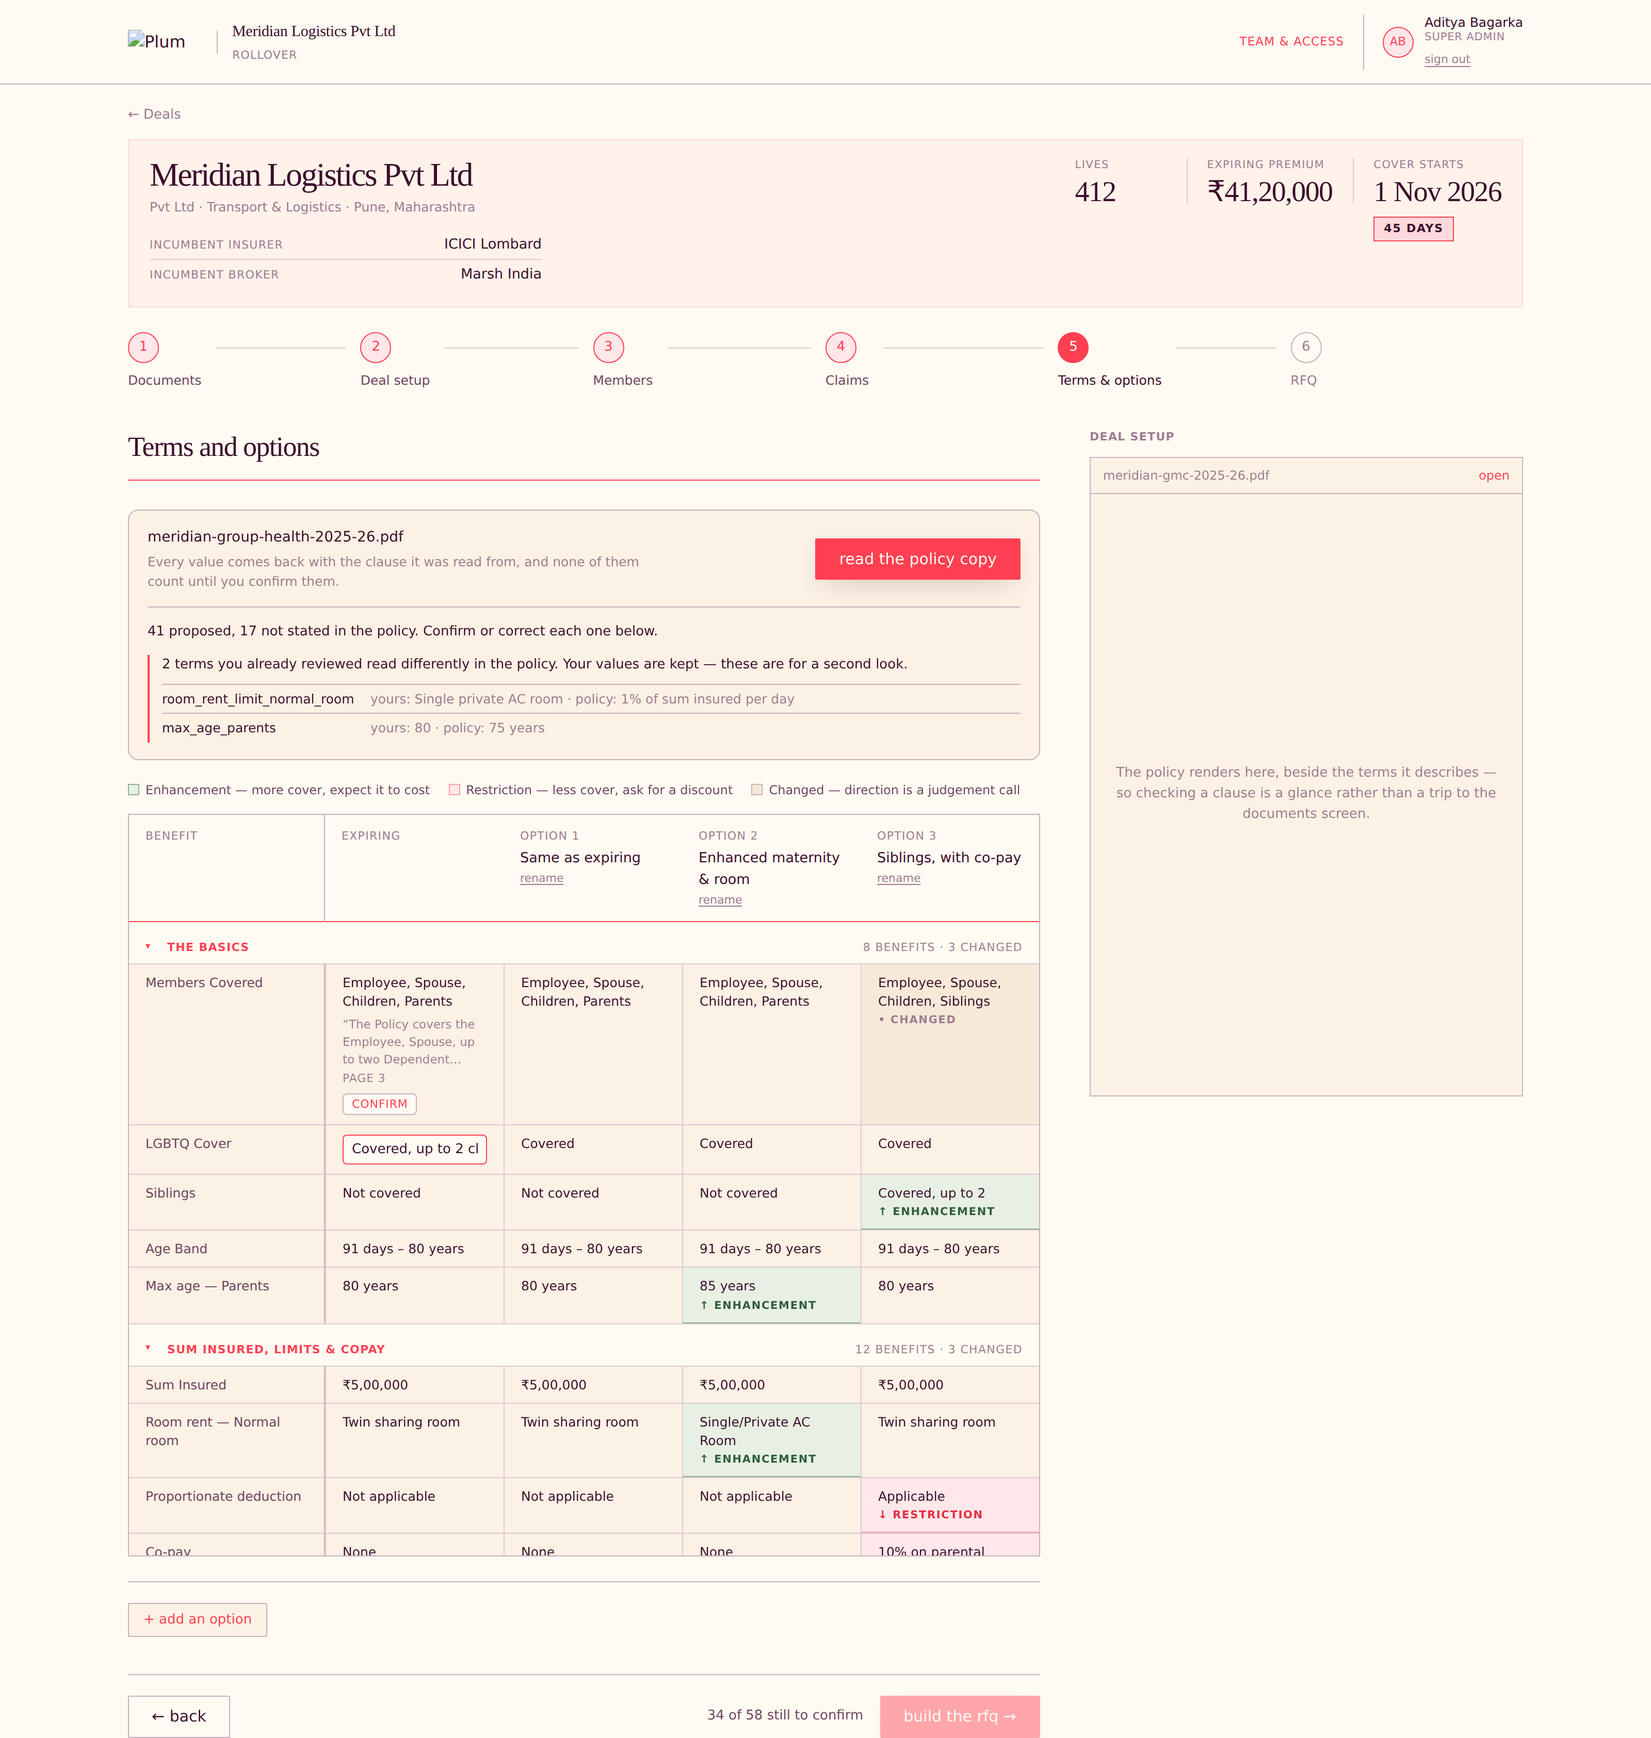
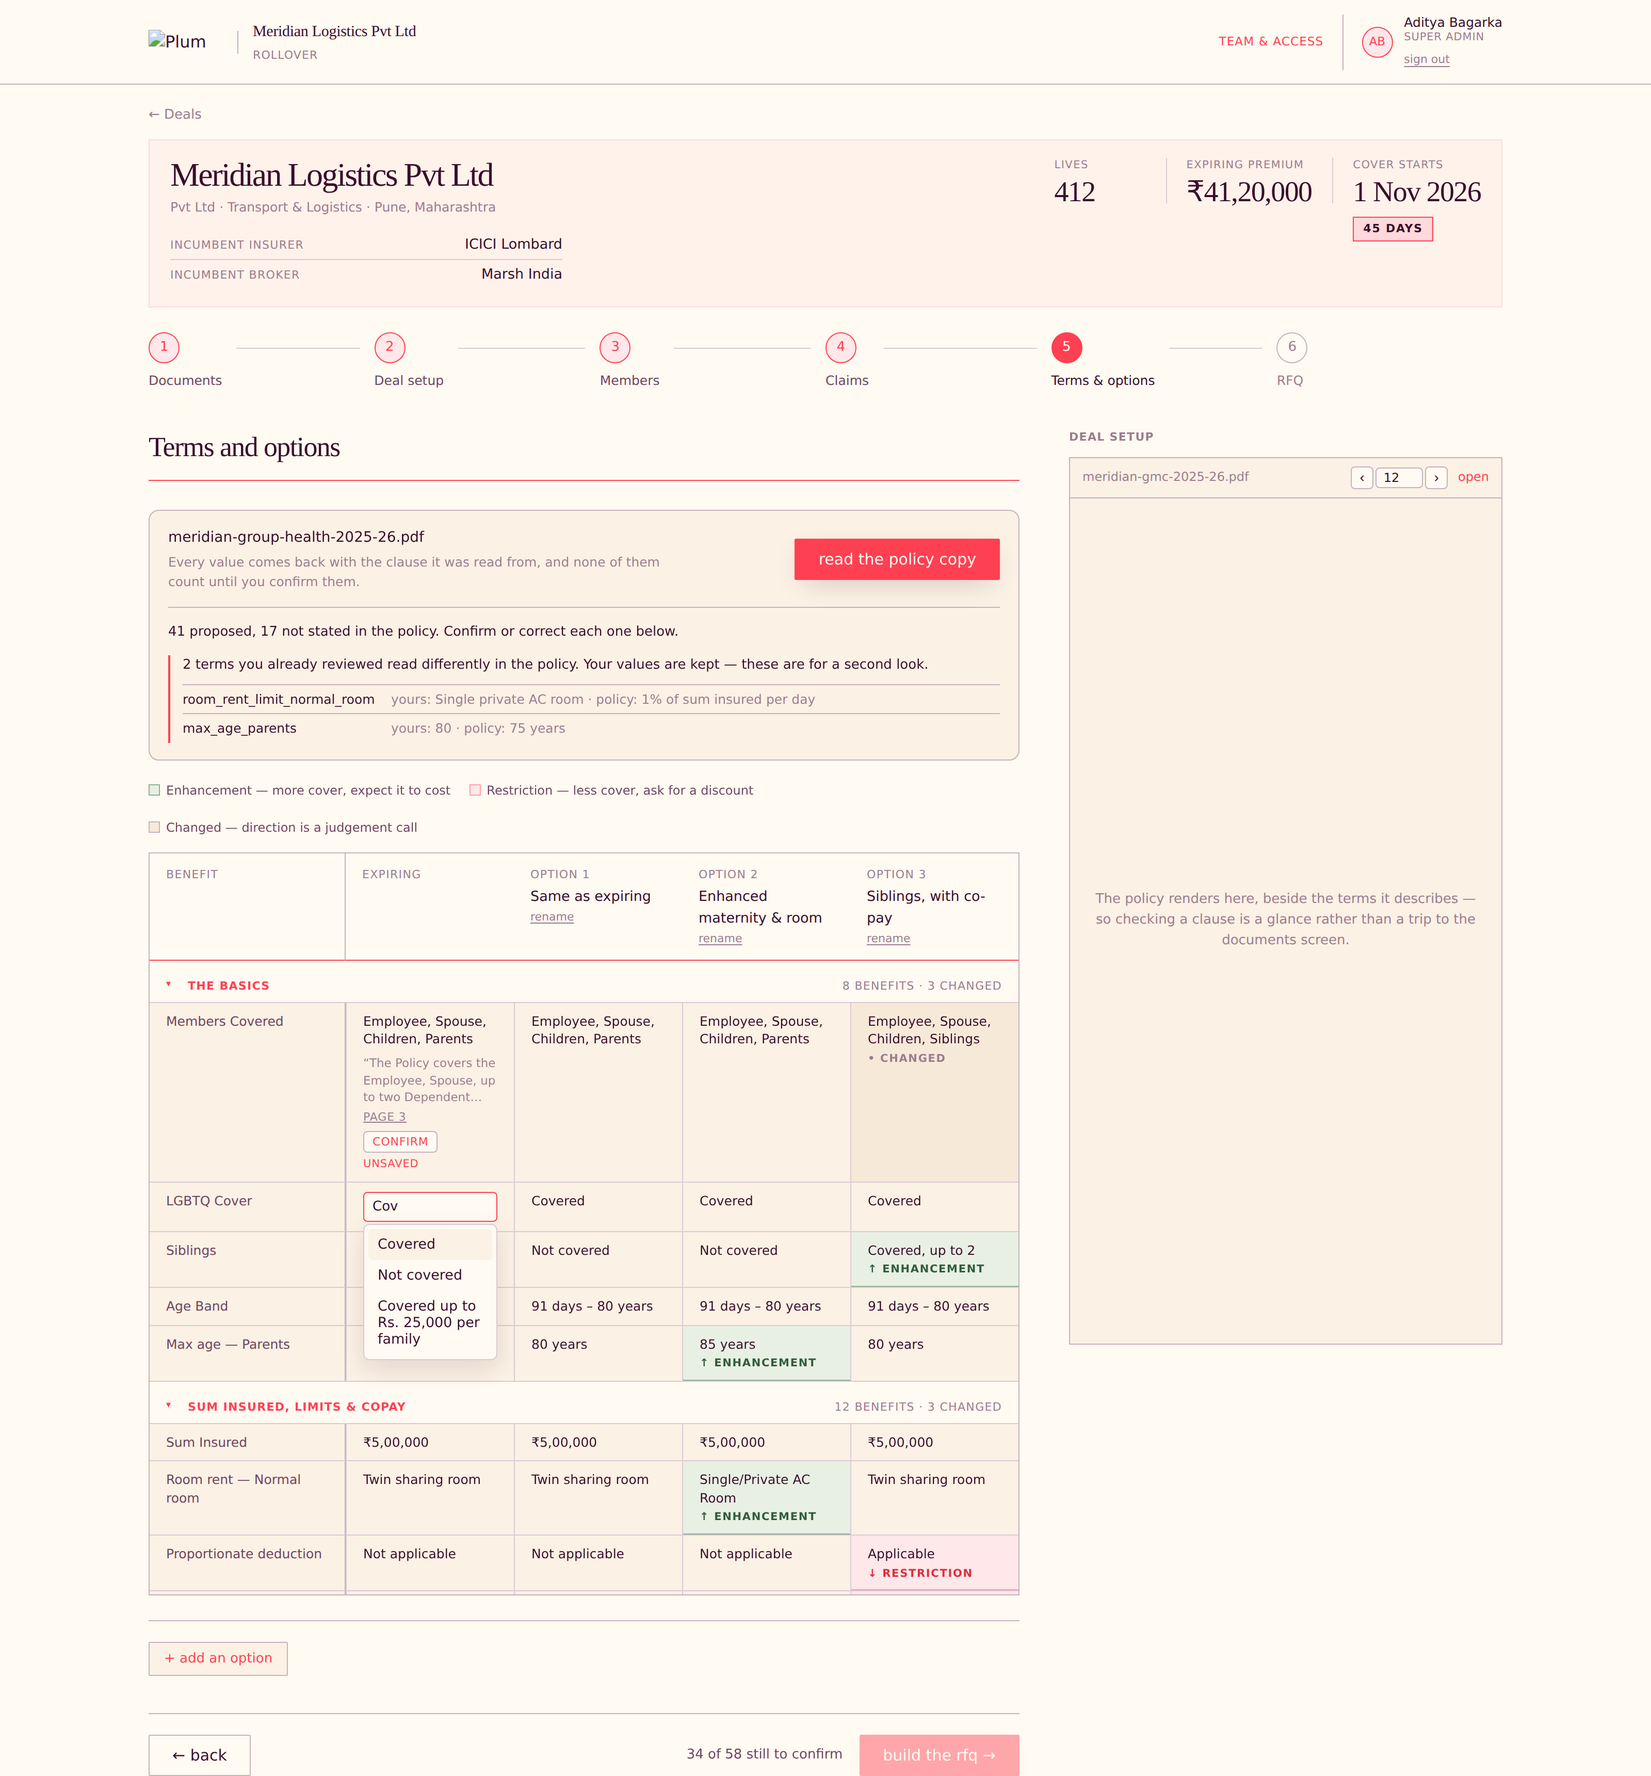
Give the terms step room, and the policy copy a way to turn its pages
Width. 1200 was too tight the moment the grid had the policy beside it and
more than one option — the benefit column, expiring and two options do not fit,
and the horizontal scrolling that followed turned comparing an option against
expiring into a memory exercise. Every step is 1440 now. Widened rather than
varied per step: a page column that moves between steps is what we changed away
from, and that reasoning still holds.

The benefit column is sticky, so a value cannot end up read under the wrong
label once the grid scrolls sideways. That mistake is an insurer quoting the
wrong cover.

The policy panel was an iframe pinned to page one of a sixty-page document —
a picture of a policy rather than a way to read one, and the only route to page
12 was opening the file in another tab, which is exactly the trip the panel
exists to avoid. It now has page controls, is sticky and full height, and a
proposed term's "page 12" drives it: the clause is quoted on the term, and
clicking the page takes the panel to where it sits. That is the difference
between evidence and a footnote.

The frame is keyed on the page because a fragment change alone does not move
the browser's PDF viewer once it has loaded — without that the controls would
move the number and nothing else.

Claude-Session: https://claude.ai/code/session_01GTNhrhZnfcdGDqUXckdAkA

diff --git a/src/app/deals/[id]/terms/policy-panel.tsx b/src/app/deals/[id]/terms/policy-panel.tsx
@@ -2,21 +2,38 @@
 
 import { useEffect, useState } from 'react';
 import { createBrowserClient } from '@supabase/ssr';
+import { currentPolicyPage, goToPolicyPage, watchPolicyPage } from './policy-view';
 
 const SUPABASE_URL = process.env.NEXT_PUBLIC_SUPABASE_URL;
 const SUPABASE_ANON_KEY = process.env.NEXT_PUBLIC_SUPABASE_ANON_KEY;
 
 /**
- * The expiring policy, rendered beside the terms grid.
+ * The expiring policy, rendered beside the terms it describes.
  *
  * The file is fetched through a short-lived signed URL rather than a public
  * one: the bucket is private, and access is decided by the same span rules as
  * the deal itself (migration 0016). A URL that outlived the session would be a
  * way around that.
+ *
+ * Page navigation is the point. The panel used to be an iframe pinned to page
+ * one of a sixty-page document, which is a picture of a policy rather than a
+ * way to read one — the only way to reach page 12 was to open the file in
+ * another tab, which is the trip this panel exists to avoid. The viewer takes a
+ * page number, so the controls here and the "page 12" on a proposed term both
+ * drive the same thing.
  */
-export function PolicyPanel({ caseId, fileRef }: { caseId: string; fileRef: string | null }) {
+export function PolicyPanel({
+  fileRef,
+  fileName,
+}: {
+  fileRef: string | null;
+  fileName: string | null;
+}) {
   const [url, setUrl] = useState<string | null>(null);
   const [error, setError] = useState<string | null>(null);
+  const [page, setPage] = useState(currentPolicyPage());
+
+  useEffect(() => watchPolicyPage(setPage), []);
 
   useEffect(() => {
     if (!fileRef || !SUPABASE_URL || !SUPABASE_ANON_KEY) return;
@@ -26,7 +43,7 @@ export function PolicyPanel({ caseId, fileRef }: { caseId: string; fileRef: stri
 
     supabase.storage
       .from('case-documents')
-      .createSignedUrl(fileRef, 600)
+      .createSignedUrl(fileRef, 3600)
       .then(({ data, error }) => {
         if (cancelled) return;
         if (error) setError(error.message);
@@ -36,15 +53,12 @@ export function PolicyPanel({ caseId, fileRef }: { caseId: string; fileRef: stri
     return () => {
       cancelled = true;
     };
-  }, [fileRef, caseId]);
+  }, [fileRef]);
 
   if (!fileRef) {
     return (
       <div className="pdf-panel">
-        <div className="pdf-panel__empty">
-          No policy copy uploaded yet. Add one at the expiring policy step and it will show here
-          while you work through the terms.
-        </div>
+        <div className="pdf-panel__empty">No policy copy uploaded.</div>
       </div>
     );
   }
@@ -52,17 +66,50 @@ export function PolicyPanel({ caseId, fileRef }: { caseId: string; fileRef: stri
   return (
     <div className="pdf-panel">
       <div className="pdf-panel__bar">
-        <span>{fileRef.split('/').pop()}</span>
+        <span className="pdf-panel__name">{fileName ?? fileRef.split('/').pop()}</span>
+
+        <span className="pdf-panel__pager">
+          <button
+            type="button"
+            onClick={() => goToPolicyPage(page - 1)}
+            disabled={page <= 1}
+            aria-label="Previous page"
+          >
+            ‹
+          </button>
+          <input
+            type="number"
+            min={1}
+            value={page}
+            onChange={(e) => goToPolicyPage(Number(e.target.value))}
+            aria-label="Page"
+          />
+          <button type="button" onClick={() => goToPolicyPage(page + 1)} aria-label="Next page">
+            ›
+          </button>
+        </span>
+
         {url ? (
-          <a href={url} target="_blank" rel="noreferrer">
+          <a href={`${url}#page=${page}`} target="_blank" rel="noreferrer">
             open
           </a>
         ) : null}
       </div>
+
       {error ? (
         <div className="pdf-panel__empty">Could not open the policy: {error}</div>
       ) : url ? (
-        <iframe className="pdf-panel__frame" src={url} title="Expiring policy" />
+        /*
+         * Keyed on the page so React remounts the frame. A fragment change
+         * alone does not move the browser's PDF viewer once it has loaded, so
+         * without this the controls would move the number and nothing else.
+         */
+        <iframe
+          key={page}
+          className="pdf-panel__frame"
+          src={`${url}#page=${page}&view=FitH`}
+          title="Expiring policy"
+        />
       ) : (
         <div className="pdf-panel__empty">Opening…</div>
       )}

diff --git a/docs/design-review/05-terms-built.html b/docs/design-review/05-terms-built.html
@@ -51,7 +51,7 @@
     <div class="terms"><div class="terms__grid" style="grid-template-columns:minmax(190px,1.2fr) minmax(160px,1.3fr) minmax(160px,1.3fr) minmax(160px,1.3fr) minmax(160px,1.3fr)">
       <div class="terms__head"><div>Benefit</div><div>Expiring</div><div>Option 1<span class="opt-name">Same as expiring</span><button class="terms__rename">rename</button></div><div>Option 2<span class="opt-name">Enhanced maternity &amp; room</span><button class="terms__rename">rename</button></div><div>Option 3<span class="opt-name">Siblings, with co-pay</span><button class="terms__rename">rename</button></div></div>
       <button class="terms__section"><span class="terms__caret">▾</span><span class="terms__section-name">The basics</span><span class="terms__section-count">8 benefits · 3 changed</span></button>
-        <div class="terms__cell terms__cell--label">Members Covered</div><div class="terms__cell terms__cell--proposed"><button class="terms__edit" type="button">Employee, Spouse, Children, Parents</button><span class="terms__evidence">“The Policy covers the Employee, Spouse, up to two Dependent Children and Dependent Parents, as declared in the member data.”</span><span class="terms__page">page 3</span><button class="terms__confirm" type="button">confirm</button><span class="terms__state terms__state--dirty">unsaved</span></div><div class="terms__cell">Employee, Spouse, Children, Parents</div><div class="terms__cell">Employee, Spouse, Children, Parents</div><div class="terms__cell terms__cell--changed">Employee, Spouse, Children, Siblings<span class="terms__mark terms__mark--changed">• changed</span></div>
+        <div class="terms__cell terms__cell--label">Members Covered</div><div class="terms__cell terms__cell--proposed"><button class="terms__edit" type="button">Employee, Spouse, Children, Parents</button><span class="terms__evidence">“The Policy covers the Employee, Spouse, up to two Dependent Children and Dependent Parents, as declared in the member data.”</span><button class="terms__page terms__page--link" type="button">page 3</button><button class="terms__confirm" type="button">confirm</button><span class="terms__state terms__state--dirty">unsaved</span></div><div class="terms__cell">Employee, Spouse, Children, Parents</div><div class="terms__cell">Employee, Spouse, Children, Parents</div><div class="terms__cell terms__cell--changed">Employee, Spouse, Children, Siblings<span class="terms__mark terms__mark--changed">• changed</span></div>
         <div class="terms__cell terms__cell--label">LGBTQ Cover</div><div class="terms__cell terms__cell--editing"><span class="typeahead"><input class="terms__input" value="Cov"><ul class="typeahead__list"><li><button class="is-active">Covered</button></li><li><button>Not covered</button></li><li><button>Covered up to Rs. 25,000 per family</button></li></ul></span></div><div class="terms__cell">Covered</div><div class="terms__cell">Covered</div><div class="terms__cell">Covered</div>
         <div class="terms__cell terms__cell--label">Siblings</div><div class="terms__cell">Not covered</div><div class="terms__cell">Not covered</div><div class="terms__cell">Not covered</div><div class="terms__cell terms__cell--enhancement">Covered, up to 2<span class="terms__mark terms__mark--enhancement">↑ enhancement</span></div>
         <div class="terms__cell terms__cell--label">Age Band</div><div class="terms__cell">91 days – 80 years</div><div class="terms__cell">91 days – 80 years</div><div class="terms__cell">91 days – 80 years</div><div class="terms__cell">91 days – 80 years</div>
@@ -79,7 +79,7 @@
    <aside class="step__aside">
      <div class="aside-block"><h3>Deal setup</h3>
        <div class="pdf-panel">
-         <div class="pdf-panel__bar"><span>meridian-gmc-2025-26.pdf</span><a>open</a></div>
+         <div class="pdf-panel__bar"><span class="pdf-panel__name">meridian-gmc-2025-26.pdf</span><span class="pdf-panel__pager"><button type="button">‹</button><input type="number" value="12"><button type="button">›</button></span><a>open</a></div>
          <div class="pdf-panel__empty">The policy renders here, beside the terms it describes — so checking a clause is a glance rather than a trip to the documents screen.</div>
        </div>
      </div>

diff --git a/src/styles/plum.css b/src/styles/plum.css
@@ -243,8 +243,18 @@ a:hover {
 
 /* ---------------------------------------------------------------------- */
 
+/*
+ * One width for every step. 1200 was too tight the moment the terms grid had
+ * the policy beside it and more than one option: the benefit column, the
+ * expiring column and two options do not fit, and the horizontal scrolling that
+ * followed made comparing an option to expiring a memory exercise.
+ *
+ * Widened rather than varied per step, because a page column that moves between
+ * steps breaks the line of sight down the form — which was the reason for
+ * settling on one width in the first place.
+ */
 .shell {
-  max-width: 1200px;
+  max-width: 1440px;
   margin: 0 auto;
   padding: 0 clamp(20px, 4vw, 64px);
 }
@@ -896,10 +906,17 @@ input[type='text'] {
 }
 
 /* The policy, beside the terms it describes. */
+/*
+ * Sticky and tall. The grid beside it is fifty-eight rows; a panel that scrolls
+ * away with the page is a policy you can consult for the first eight benefits.
+ */
 .pdf-panel {
+  position: sticky;
+  top: 16px;
   border: 1px solid var(--line-lavender);
   background: var(--cream-deep);
-  height: 620px;
+  height: calc(100vh - 140px);
+  min-height: 520px;
   display: flex;
   flex-direction: column;
 }
@@ -909,10 +926,66 @@ input[type='text'] {
   justify-content: space-between;
   align-items: center;
   gap: 10px;
+  flex-wrap: wrap;
   padding: 8px 12px;
   border-bottom: 1px solid var(--line-lavender);
   font-size: 12px;
   color: var(--fg-muted);
+}
+
+.pdf-panel__name {
+  flex: 1;
+  min-width: 0;
+  overflow: hidden;
+  text-overflow: ellipsis;
+  white-space: nowrap;
+}
+
+.pdf-panel__pager {
+  display: inline-flex;
+  align-items: center;
+  gap: 2px;
+}
+
+.pdf-panel__pager button {
+  border: 1px solid var(--line-lavender);
+  background: var(--cream);
+  color: var(--fg-1);
+  border-radius: 4px;
+  width: 22px;
+  height: 22px;
+  line-height: 1;
+  cursor: pointer;
+}
+
+.pdf-panel__pager button:disabled {
+  opacity: 0.4;
+  cursor: default;
+}
+
+.pdf-panel__pager input {
+  width: 46px;
+  border: 1px solid var(--line-lavender);
+  border-radius: 4px;
+  background: var(--cream);
+  padding: 2px 4px;
+  font-family: var(--font-sans);
+  font-size: 12px;
+  text-align: center;
+  color: var(--fg-1);
+}
+
+/* The page marker on a proposed term is a control, not a footnote. */
+.terms__page--link {
+  border: 0;
+  background: none;
+  padding: 0;
+  font: inherit;
+  letter-spacing: inherit;
+  text-transform: inherit;
+  color: var(--plum-red);
+  text-decoration: underline;
+  cursor: pointer;
 }
 
 .pdf-panel__frame {
@@ -1024,6 +1097,24 @@ input[type='text'] {
  * The height is capped rather than fitted so the step's own footer and the
  * policy panel beside it stay on screen while the table is being read.
  */
+/*
+ * The benefit column is sticky. Once the grid scrolls sideways — which it will,
+ * with four options — a value under the wrong label is an insurer quoting the
+ * wrong cover, so the label has to stay put.
+ */
+.terms__cell--label,
+.terms__head > div:first-child {
+  position: sticky;
+  left: 0;
+  z-index: 2;
+  background: var(--cream);
+}
+
+.terms__section {
+  position: sticky;
+  left: 0;
+}
+
 .terms {
   border: 1px solid var(--line-lavender);
   overflow: auto;
@@ -1605,13 +1696,9 @@ input[type='text'] {
  * column width the grid would scroll horizontally from the first option, which
  * is exactly where misreading a row against the wrong column starts.
  */
-/*
- * Kept as a hook, but no longer a different width. Every step shares the page
- * column, because a viewport that shifts between steps breaks the line of sight
- * down the form — the terms grid scrolls inside the column instead.
- */
+/* Kept as a hook; every step shares the page column. */
 .shell--wide {
-  max-width: 1200px;
+  max-width: 1440px;
 }
 
 .step--wide-aside {

diff --git a/src/app/deals/[id]/terms/policy-view.ts b/src/app/deals/[id]/terms/policy-view.ts
@@ -1,0 +1,36 @@
+'use client';
+
+/**
+ * Which page of the policy the panel is showing.
+ *
+ * A term's evidence knows its page and the viewer knows how to show one, but
+ * they are siblings — the grid is the step's main column and the policy sits in
+ * the aside. Rather than restructure the step around a context provider for one
+ * integer, they agree on this.
+ *
+ * Module state, so it survives either side unmounting: collapsing a section
+ * takes the cells with it, and the panel should not lose its place because of
+ * that.
+ */
+
+type Listener = (page: number) => void;
+
+const listeners = new Set<Listener>();
+let current = 1;
+
+export function goToPolicyPage(page: number): void {
+  if (!Number.isFinite(page) || page < 1) return;
+  current = Math.floor(page);
+  for (const listener of listeners) listener(current);
+}
+
+export function watchPolicyPage(listener: Listener): () => void {
+  listeners.add(listener);
+  return () => {
+    listeners.delete(listener);
+  };
+}
+
+export function currentPolicyPage(): number {
+  return current;
+}

diff --git a/src/app/deals/[id]/terms/term-cell.tsx b/src/app/deals/[id]/terms/term-cell.tsx
@@ -1,6 +1,7 @@
 'use client';
 
 import { useEffect, useState } from 'react';
+import { goToPolicyPage } from './policy-view';
 import type { SaveState, TermState } from './use-term-saves';
 
 const STATE_LABEL: Partial<Record<SaveState, string>> = {
@@ -167,7 +168,17 @@ export function TermCell({
       {term.evidence ? (
         <>
           <span className="terms__evidence">“{term.evidence}”</span>
-          {term.evidencePage ? <span className="terms__page">page {term.evidencePage}</span> : null}
+          {term.evidencePage ? (
+            // The clause is quoted here; this takes the panel to where it sits,
+            // which is the difference between evidence and a footnote.
+            <button
+              className="terms__page terms__page--link"
+              type="button"
+              onClick={() => goToPolicyPage(term.evidencePage!)}
+            >
+              page {term.evidencePage}
+            </button>
+          ) : null}
         </>
       ) : null}
 

diff --git a/src/app/deals/[id]/terms/page.tsx b/src/app/deals/[id]/terms/page.tsx
@@ -188,7 +188,10 @@ export default async function TermsPage({ params }: { params: { id: string } }) 
             {/* The policy sits beside the terms it describes, so checking a
                 clause is a glance rather than a trip to the documents screen
                 and back. */}
-            <PolicyPanel caseId={header.id} fileRef={policyDoc?.file_ref ?? null} />
+            <PolicyPanel
+              fileRef={policyDoc?.file_ref ?? null}
+              fileName={policyDoc?.file_name ?? null}
+            />
           </div>
         }
       >
